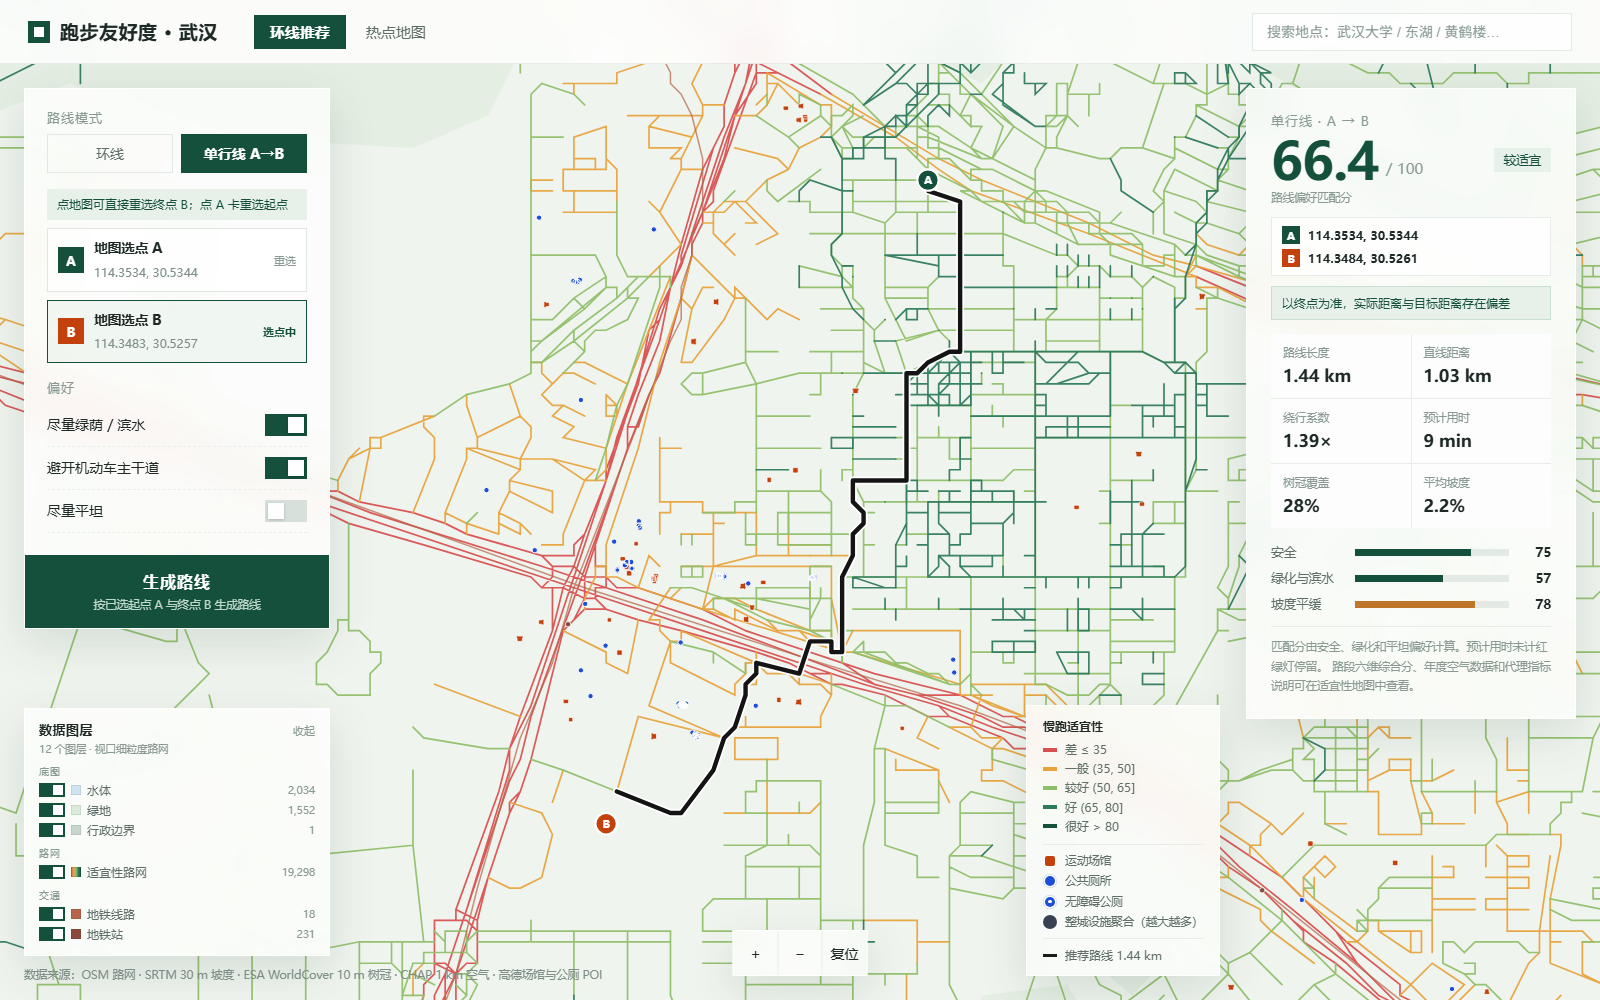
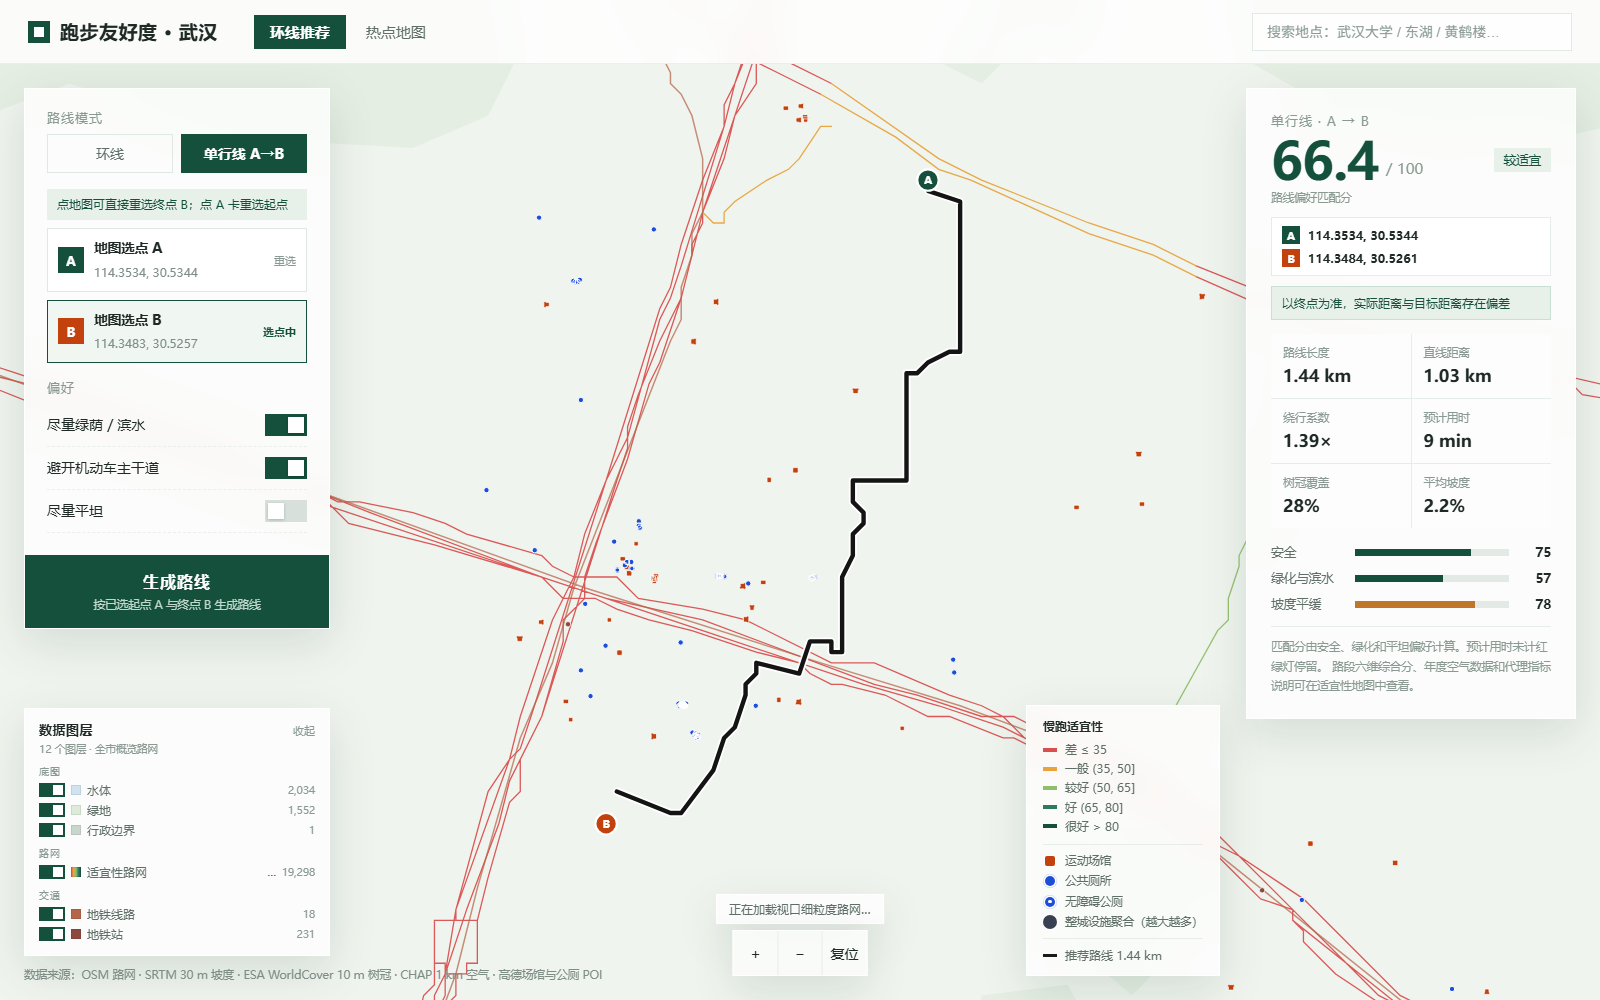
perf(frontend): 拖动改为合成器平移，松手再落 viewBox
- svgAdapter 新增 beginPan/panBy/endPan：拖动期把 SVG 放大到 160%、同步放宽
  viewBox，只改 CSS transform（合成器搬运，不重光栅化），松手写回真实 viewBox；
- MapStage 单指拖动改走上面的路径，clampPan 夹住地图范围，缩放/复位前先落地；
- ui-smoke 增加拖动用例（viewBox 落地 + 过扫描清空）；
- 实测 DPR=1 拖动主线程 0.252s -> 0.052s、LayoutCount 60 -> 2；真后端 33/33、mock 36/36。

diff --git a/frontend/app/src/components/MapStage.vue b/frontend/app/src/components/MapStage.vue
@@ -46,6 +46,23 @@ const dragging = ref(false)
 const pointers = new Map<number, { x: number; y: number }>()
 let suppressClick = false
 
+/**
+ * 拖动期「合成器平移」状态：拖动中不改 viewBox、不写 viewport.value，
+ * 只给 SVG 加 CSS transform；超出过扫描余量或松手时再落地成真实视口。
+ */
+let panState: {
+  startX: number
+  startY: number
+  baseX: number
+  baseY: number
+  zoom: number
+  /** viewBox 单位 / CSS px */
+  perPx: number
+  /** 每一侧可平移余量（CSS px） */
+  padPx: number
+} | null = null
+let lastDrag = { x: 0, y: 0 }
+
 interface SegmentCacheEntry {
   truncated: boolean
   data: LayerCollection | null
@@ -86,6 +103,7 @@ function updateSelectedPoiPosition(): void {
 }
 
 function updateViewport(x: number, y: number, zoom: number, immediateSymbols = false): void {
+  commitPan()
   const clampedZoom = Math.min(MAX_ZOOM, Math.max(1, zoom))
   const clampedX = Math.min(Math.max(0, x), MAP_W - MAP_W / clampedZoom)
   const clampedY = Math.min(Math.max(0, y), MAP_H - MAP_H / clampedZoom)
@@ -305,6 +323,7 @@ async function syncViewportSegments(): Promise<void> {
 function onWheel(event: WheelEvent): void {
   const anchor = canvasPoint(event.clientX, event.clientY)
   if (!anchor || !event.deltaY) return
+  commitPan()
   inspection.hoveredPoi = null
   zoomAt(event.deltaY < 0 ? 1.25 : 1 / 1.25, anchor)
 }
@@ -312,6 +331,8 @@ function onWheel(event: WheelEvent): void {
 function onPointerDown(event: PointerEvent): void {
   if (event.button !== 0 || pointers.size >= 2) return
   if (pointers.size === 0) suppressClick = false
+  commitPan()
+  panState = null
   if (segmentsTimer !== null) window.clearTimeout(segmentsTimer)
   segmentsTimer = null
   if (symbolTimer !== null) window.clearTimeout(symbolTimer)
@@ -320,9 +341,57 @@ function onPointerDown(event: PointerEvent): void {
   segmentsAbort = null
   state.roadsDetailLoading = false
   pointers.set(event.pointerId, { x: event.clientX, y: event.clientY })
-  host.value?.setPointerCapture(event.pointerId)
+  // 合成事件的 pointerId 可能没有对应的活动指针，捕获失败不应打断交互
+  try {
+    host.value?.setPointerCapture(event.pointerId)
+  } catch {
+    /* 忽略：没有活动指针时无法捕获 */
+  }
   gesture = { start: pointerCenter(), view: viewport.value }
   if (pointers.size === 2) dragging.value = suppressClick = true
+}
+
+/** 在给定指针位置开始一段合成器平移 */
+function beginPan(current: { x: number; y: number }): void {
+  const rect = host.value?.getBoundingClientRect()
+  if (!rect || rect.width <= 0) return
+  const padPx = adapter.beginPan()
+  if (padPx <= 0) return
+  panState = {
+    startX: current.x,
+    startY: current.y,
+    baseX: viewport.value.x,
+    baseY: viewport.value.y,
+    zoom: viewport.value.zoom,
+    perPx: MAP_W / rect.width / viewport.value.zoom,
+    padPx,
+  }
+}
+
+/** 把平移位移限制在地图范围内（否则会拖出空白边），返回夹紧后的 CSS px 位移 */
+function clampPan(dx: number, dy: number, pan: NonNullable<typeof panState>): [number, number] {
+  const spanX = MAP_W - MAP_W / pan.zoom
+  const spanY = MAP_H - MAP_H / pan.zoom
+  const minDx = (pan.baseX - spanX) / pan.perPx
+  const maxDx = pan.baseX / pan.perPx
+  const minDy = (pan.baseY - spanY) / pan.perPx
+  const maxDy = pan.baseY / pan.perPx
+  return [
+    Math.min(maxDx, Math.max(minDx, dx)),
+    Math.min(maxDy, Math.max(minDy, dy)),
+  ]
+}
+
+/** 把平移落成真实视口（松手、缩放、切到双指之前调用） */
+function commitPan(): void {
+  if (!panState) return
+  const [dx, dy] = clampPan(lastDrag.x - panState.startX, lastDrag.y - panState.startY, panState)
+  const x = panState.baseX - dx * panState.perPx
+  const y = panState.baseY - dy * panState.perPx
+  const zoom = panState.zoom
+  panState = null
+  adapter.endPan(x, y, zoom)
+  viewport.value = { x, y, zoom }
 }
 
 function onPointerMove(event: PointerEvent): void {
@@ -335,6 +404,39 @@ function onPointerMove(event: PointerEvent): void {
     }
     dragging.value = suppressClick = true
     inspection.hoveredPoi = null
+    lastDrag = { x: current.x, y: current.y }
+
+    // 单指拖动：合成器平移（拖动中零重绘）；双指缩放仍走 updateViewport
+    if (pointers.size === 1) {
+      const rect = host.value?.getBoundingClientRect()
+      if (rect && rect.width > 0) {
+        if (!panState) beginPan(current)
+        if (panState) {
+          const [dx, dy] = clampPan(
+            current.x - panState.startX,
+            current.y - panState.startY,
+            panState,
+          )
+          if (
+            Math.abs(dx) > panState.padPx * 0.7 ||
+            Math.abs(dy) > panState.padPx * 0.7
+          ) {
+            // 超出过扫描余量：先落到已拖到的位置，再向外多画一圈重新锚定
+            const x = panState.baseX - dx * panState.perPx
+            const y = panState.baseY - dy * panState.perPx
+            const zoom = panState.zoom
+            adapter.endPan(x, y, zoom)
+            viewport.value = { x, y, zoom }
+            panState = null
+            beginPan(current)
+          } else {
+            adapter.panBy(dx, dy)
+          }
+          return
+        }
+      }
+    }
+
     const origin = canvasPoint(start.x, start.y)
     const destination = canvasPoint(current.x, current.y)
     if (!origin || !destination) return
@@ -359,6 +461,7 @@ function onPointerMove(event: PointerEvent): void {
 
 function onPointerEnd(event: PointerEvent): void {
   if (!pointers.delete(event.pointerId)) return
+  commitPan()
   gesture = pointers.size ? { start: pointerCenter(), view: viewport.value } : null
   if (!gesture) {
     if (dragging.value) adapter.refreshViewportSymbols()
@@ -665,7 +768,7 @@ onBeforeUnmount(() => {
 </script>
 
 <template>
-  <div class="map-frame">
+  <div class="map-frame" :class="{ dragging }">
     <div
       ref="host"
       class="map-host"
@@ -821,6 +924,17 @@ onBeforeUnmount(() => {
   display: block;
   width: 100%;
   height: 100%;
+}
+
+/* 拖动期地图走合成器平移（SVG 被放大 160% 后在层内搬运），
+   屏幕坐标系的浮层会跟画面对不上，先藏起来，松手后自动恢复。 */
+.map-frame.dragging .poi-tooltip,
+.map-frame.dragging .poi-popover {
+  display: none;
+}
+
+.map-frame.dragging :deep(.hotspot-overlay) {
+  opacity: 0;
 }
 
 .poi-tooltip {

diff --git a/frontend/app/src/map/svgAdapter.ts b/frontend/app/src/map/svgAdapter.ts
@@ -64,6 +64,9 @@ interface RenderedCluster {
   count: number
 }
 
+/** 拖动期「合成器平移」的过扫描比例：四周各多画 30%，可平移余量 = 0.3×视口宽 */
+const PAN_PAD = 0.3
+
 /**
  * SVG 地图适配器（F1 统一单图 + F4 运动场馆/公厕分符号与整城聚合）。
  */
@@ -79,6 +82,8 @@ export class SvgAdapter implements MapAdapter {
   private vpX = 0
   private vpY = 0
   private zoom = 1
+  private panActive = false
+  private panPad = 0
 
   private loop: LoopFeature | null = null
   private origin: MapOrigin | null = null
@@ -154,6 +159,68 @@ export class SvgAdapter implements MapAdapter {
       this.renderMarker()
       if (this.places.length) this.renderPlaces()
     }
+  }
+
+  /**
+   * 进入「合成器平移」：把 SVG 放大 (1+2p) 并向外偏移同样比例，viewBox 同步加边，
+   * 屏幕比例不变，但四周多出一圈已绘制内容。拖动时用 CSS transform 搬这块位图，
+   * 高 DPI 下不再每帧重绘整个 SVG。
+   * @returns 每一侧可平移的余量（CSS px）；0 表示当前不可用（调用方回退到改 viewBox）。
+   */
+  beginPan(): number {
+    const svg = this.svg
+    const host = this.host
+    if (!svg || !host || this.panActive) return 0
+    const rect = host.getBoundingClientRect()
+    if (!rect.width || !rect.height) return 0
+    this.panActive = true
+    this.panPad = PAN_PAD
+    const pct = PAN_PAD * 100
+    svg.style.width = `${100 + 2 * pct}%`
+    svg.style.height = `${100 + 2 * pct}%`
+    svg.style.marginLeft = `${-pct}%`
+    svg.style.marginTop = `${-pct}%`
+    svg.style.willChange = 'transform'
+    this.applyPanBox()
+    return PAN_PAD * rect.width
+  }
+
+  private applyPanBox(): void {
+    const svg = this.svg
+    if (!svg) return
+    const w = MAP_W / this.zoom
+    const h = MAP_H / this.zoom
+    const p = this.panPad
+    svg.setAttribute(
+      'viewBox',
+      `${this.vpX - p * w} ${this.vpY - p * h} ${w * (1 + 2 * p)} ${h * (1 + 2 * p)}`,
+    )
+  }
+
+  /** 平移态中按 CSS px 位移；由合成器搬运，不触发 SVG 重绘 */
+  panBy(dx: number, dy: number): void {
+    const svg = this.svg
+    if (!svg || !this.panActive) return
+    svg.style.transform = `translate3d(${dx.toFixed(2)}px, ${dy.toFixed(2)}px, 0)`
+  }
+
+  /** 退出平移态并把 viewBox 落到给定视口（先清 transform，再设 viewBox，避免闪一帧偏移） */
+  endPan(x: number, y: number, zoom: number): void {
+    const svg = this.svg
+    this.panActive = false
+    if (svg) {
+      svg.style.transform = ''
+      svg.style.width = ''
+      svg.style.height = ''
+      svg.style.marginLeft = ''
+      svg.style.marginTop = ''
+      svg.style.willChange = ''
+    }
+    this.setViewport(x, y, zoom)
+  }
+
+  get panning(): boolean {
+    return this.panActive
   }
 
   /** 平移/缩放结束后刷新屏幕等比点符号与整城聚合 */

diff --git a/frontend/app/README.md b/frontend/app/README.md
@@ -103,7 +103,7 @@ docs/数据图层清单.md      数据检测记录：16 个空间文件 / 13 个
 - 在线搜索通过 `/api/places/search` 调高德（Key 只在后端，坐标转 WGS84），结果以编号标记同步到地图；空关键词仍显示两个预设地点。地图为 SVG 静态底图，前端不加载任何第三方地图 JS、不持有地图开发者 Key。
 - 热点页签读 `/api/hotspot`（全城 1,853 格 / 133 热点，2 km 网格、评分按路段长度加权，v2 分档 35/50/65/80）；mock 模式用 `src/mocks/hotspot.ts` 的 500 格都市区示例。字段与重建步骤见 `docs/过程/热点地图前端实现与交接.md`。
 
-2026-11-25 两页签 + 全城热点改造验收通过：`vue-tsc` 与 `npm run build` 成功，真后端 32/32、mock 35/35（页签顺序、全城 2 km 网格 1,853 格、榜单/详情联动、环线自动生成、地点搜索、390/320 px）。同日更早的合并验收（fixSearch 地点搜索 × main 视口性能 × PR #6 热点地图）：`npm run build` 成功，真后端 38/38、mock 43/43（含环线/单行线两种模式的地点搜索选点、编号标记与选中生成路线，热点页签与 390 px 热点页；起点对比页已在 main 移除，故不再有对比用例）。2026-11-25 早先记录：真后端 32/32、mock 37/37；2026-11-24 记录：真后端 36/36；2026-11-23 记录：真后端 32/32、mock 37/37。检查记录在 `data/output/ui/frontend-delivery/checks.json`（本次）与 `data/output/ui/delivery-real/checks.json`、`delivery-mock/checks.json`。
+2026-11-25 拖动/缩放与视口路网优化后复验：`vue-tsc` 与 `npm run build` 成功，真后端 33/33、mock 36/36（新增拖动用例：合成器平移松手后 viewBox 已落地、过扫描尺寸清空）。2026-11-25 两页签 + 全城热点改造验收通过：真后端 32/32、mock 35/35（页签顺序、全城 2 km 网格 1,853 格、榜单/详情联动、环线自动生成、地点搜索、390/320 px）。同日更早的合并验收（fixSearch 地点搜索 × main 视口性能 × PR #6 热点地图）：`npm run build` 成功，真后端 38/38、mock 43/43（含环线/单行线两种模式的地点搜索选点、编号标记与选中生成路线，热点页签与 390 px 热点页；起点对比页已在 main 移除，故不再有对比用例）。2026-11-25 早先记录：真后端 32/32、mock 37/37；2026-11-24 记录：真后端 36/36；2026-11-23 记录：真后端 32/32、mock 37/37。检查记录在 `data/output/ui/frontend-delivery/checks.json`（本次）与 `data/output/ui/delivery-real/checks.json`、`delivery-mock/checks.json`。
 
 ## 联调验收
 

diff --git a/docs/过程/热点地图前端实现与交接.md b/docs/过程/热点地图前端实现与交接.md
@@ -221,8 +221,8 @@ $env:UI_REAL='1'; $env:UI_SCREENSHOTS='1'; node scripts\ui-smoke.mjs
 本次验收结果（2026-11-25）：
 
 - `npx vue-tsc --noEmit`：通过；`npm run build`：通过（仅既有 chunk >500 kB 提示）；
-- 真后端 `UI_REAL=1`：**32/32 通过**（热点页 `data-cells=5480`）；
-- mock `UI_REAL=0`：**35/35 通过**（热点页 500 格）；
+- 真后端 `UI_REAL=1`：**33/33 通过**（热点页 `data-cells=1853`；2026-11-25 加拖动用例后）；
+- mock `UI_REAL=0`：**36/36 通过**（热点页 500 格）；
 - `python -m pytest ..\tests -q`：**24 passed**；
 - 截图：`data/output/ui/frontend-delivery/hotspot-desktop.png`、
   `hotspot-mobile.png`，检查记录同目录 `checks.json`。
@@ -272,6 +272,6 @@ $env:UI_REAL='1'; $env:UI_SCREENSHOTS='1'; node scripts\ui-smoke.mjs
 - [x] 六维详情与“以此处为起点”；
 - [x] 桌面 / 390 px 移动端布局；
 - [x] `vue-tsc` / `npm run build` 通过；
-- [x] `ui-smoke.mjs` 真后端 32/32、mock 35/35；
+- [x] `ui-smoke.mjs` 真后端 33/33、mock 36/36；
 - [ ] 500 m 尺度切换（可选增强）；
 - [ ] 用真实网格更新答辩截图与讲稿口径。
